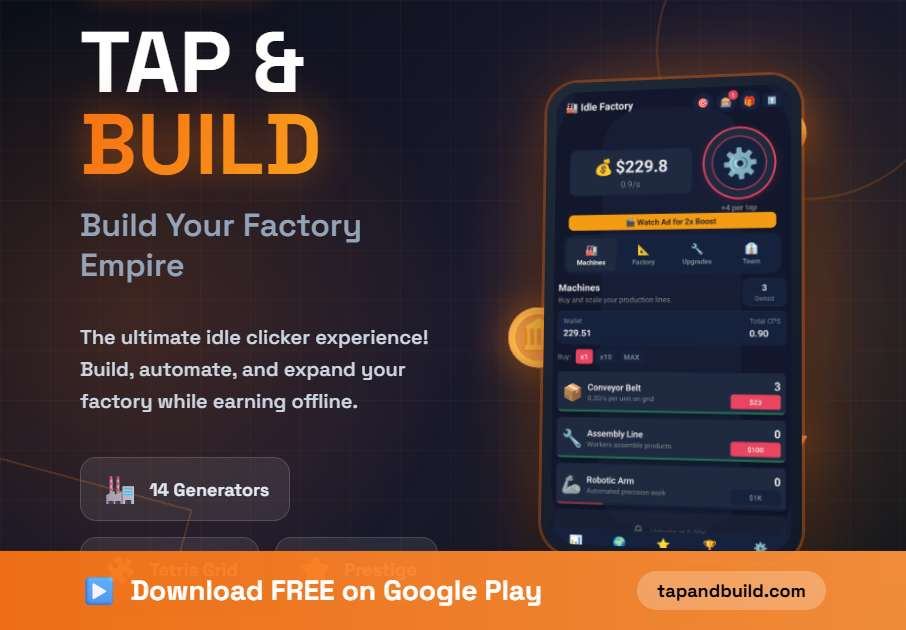
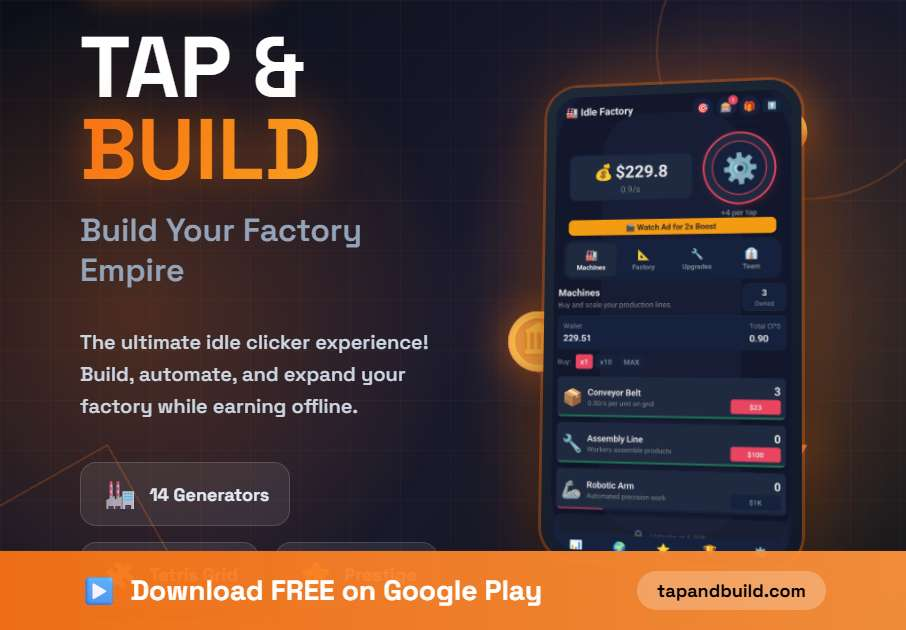
Optimize OG images with safe zones for social media - all under 50KB

diff --git a/og-whatsapp.html b/og-whatsapp.html
@@ -94,7 +94,7 @@
             align-items: center;
             justify-content: center;
             height: 100%;
-            padding: 80px;
+            padding: 140px 100px 100px 100px;
             text-align: center;
         }
         
@@ -110,7 +110,7 @@
             border-radius: 30px;
             font-size: 28px;
             font-weight: 700;
-            margin-bottom: 48px;
+            margin-bottom: 40px;
             box-shadow: 0 0 40px rgba(249, 115, 22, 0.4);
             animation: glow 2s ease-in-out infinite;
         }
@@ -122,10 +122,10 @@
         
         /* Title */
         .title {
-            font-size: 140px;
+            font-size: 120px;
             font-weight: 800;
             line-height: 1;
-            margin-bottom: 32px;
+            margin-bottom: 28px;
             text-shadow: 0 0 60px rgba(249, 115, 22, 0.5);
         }
         
@@ -144,9 +144,9 @@
         
         /* Subtitle */
         .subtitle {
-            font-size: 48px;
+            font-size: 42px;
             color: #94a3b8;
-            margin-bottom: 64px;
+            margin-bottom: 56px;
             font-weight: 600;
             letter-spacing: 2px;
         }
@@ -155,8 +155,8 @@
         .features {
             display: grid;
             grid-template-columns: repeat(2, 1fr);
-            gap: 32px;
-            margin-bottom: 64px;
+            gap: 28px;
+            margin-bottom: 56px;
             width: 100%;
             max-width: 900px;
         }
@@ -213,13 +213,13 @@
         /* Stats bar */
         .stats {
             position: absolute;
-            bottom: 60px;
+            bottom: 100px;
             left: 80px;
             right: 80px;
             display: flex;
             justify-content: space-around;
             background: rgba(0, 0, 0, 0.6);
-            padding: 32px;
+            padding: 28px;
             border-radius: 20px;
             border: 1px solid rgba(255, 255, 255, 0.1);
             backdrop-filter: blur(10px);

diff --git a/og-facebook.html b/og-facebook.html
@@ -62,7 +62,7 @@
         .top-section {
             flex: 1;
             display: flex;
-            padding: 50px 70px 30px 70px;
+            padding: 70px 70px 30px 70px;
             gap: 50px;
         }
         

diff --git a/og-twitter.html b/og-twitter.html
@@ -87,7 +87,7 @@
             z-index: 10;
             display: flex;
             height: 100%;
-            padding: 60px 80px;
+            padding: 80px 80px 70px 80px;
             gap: 60px;
         }
         
